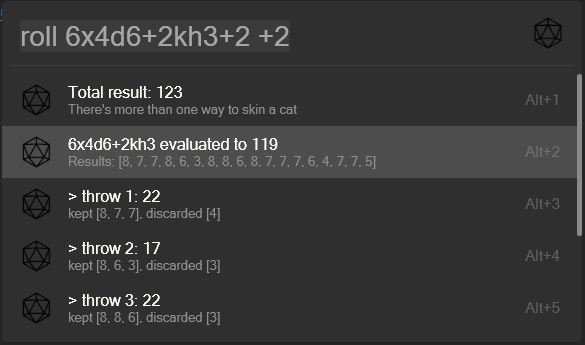
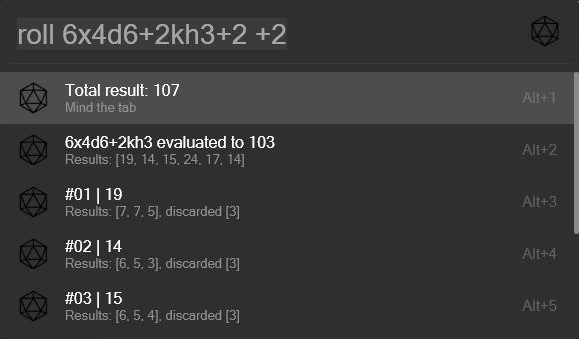
feat: better messages, revisited readme

diff --git a/plugin/roll_dice.py b/plugin/roll_dice.py
@@ -1,4 +1,5 @@
 # encoding=utf8
+from itertools import chain
 import re
 import ast
 import operator as op
@@ -6,7 +7,6 @@ from flowlauncher import FlowLauncher
 from dice_rolling.utils.argument_parser import ParsingResult
 from dice_rolling import RollBuilder
 from fortunes import rnd_fortune
-from itertools import chain
 
 
 def filter_non_valids(text: str) -> str:
@@ -34,6 +34,11 @@ class CustomParsingResult(ParsingResult):
 
 class DiceRequest:
     # see also: https://github.com/Ajordat/dice_rolling
+
+    TXT_TITLE_BASE_REP = "#{:02d} | {}"
+    TXT_TITLE_BASE = "{} evaluated to {}"
+    TXT_SUB_BASE = "Results: {}"
+    TXT_SUB_DISC = ", discarded {}"
 
     GROUP_REQUEST = 0
     GROUP_REPETITIONS = 1
@@ -63,7 +68,7 @@ class DiceRequest:
             b.addition_to_roll(self.request.addition)
             b.keep_n(self.request.keep)
             b.build()
-            r.append(b.get_full_result())
+            r.append(b.get_full_result())  # Tuple[int, list, list]
 
         self.rolls = r
         self.total_sum = sum([result[0] for result in r])
@@ -71,19 +76,50 @@ class DiceRequest:
         self.total_discarded = [
             discarded for result in r for discarded in result[2] if result[2]]
 
+    def __generate_message_title(self, title=None) -> str:
+        if title is None:
+            return self.TXT_TITLE_BASE.format(
+                self.request.full_request,
+                self.total_sum
+            )
+        return title
+
+    def __generate_message_subtitle(self, results: list, discarded: list, base=TXT_SUB_BASE, addition=TXT_SUB_DISC) -> str:
+        subtitle = base.format(results)
+        if len(discarded) > 0:
+            subtitle = subtitle + addition.format(discarded)
+        return subtitle
+
     def total_to_messageDTO(self) -> MessageDTO:
-        title = "{} evaluated to {}".format(
-            self.request.full_request, self.total_sum)
-        subtitle = "Results: {}".format(
-            list(chain.from_iterable([result[1] for result in self.rolls])))  # list flattening
-        return MessageDTO(title, subtitle)
+        def flatten(lst: list):
+            return list(chain.from_iterable(lst))
+
+        results = []
+        discarded = []
+        if len(self.rolls) > 1:
+            results = [roll[0] for roll in self.rolls]
+        else:
+            results = flatten([roll[1] for roll in self.rolls])
+            discarded = flatten([roll[2] for roll in self.rolls if roll[2]])
+
+        return MessageDTO(
+            self.__generate_message_title(),
+            self.__generate_message_subtitle(results, discarded)
+        )
 
     def rolls_to_messageDTO(self) -> list[MessageDTO]:
-        return [MessageDTO(
-            title="> throw {}: {}".format(str(i+1), result[0]),
-            subtitle="kept {}{}".format(result[1], ", discarded {}".format(
-                result[2]) if len(result) > 2 else "")
-        ) for i, result in enumerate(self.rolls)]
+        messages = []
+        for i, roll in enumerate(self.rolls):
+            custom_base_title = self.TXT_TITLE_BASE_REP.format(
+                i+1,
+                roll[0]
+            )
+            discarded = roll[2] if len(roll) > 2 else []
+            messages.append(MessageDTO(
+                self.__generate_message_title(custom_base_title),
+                self.__generate_message_subtitle(roll[1], discarded)
+            ))
+        return messages
 
     def __parse_repititions(self, command: re.Match):
         if command.group(self.GROUP_REPETITIONS):
@@ -160,8 +196,11 @@ class SaferEvaluator:
 class RollDice(FlowLauncher):
     messages = []
 
-    def addMessage(self, message: MessageDTO):
-        self.messages.append(message.as_flow_message())
+    def addMessage(self, message: MessageDTO, isPriority=False):
+        if isPriority:
+            self.messages.insert(0, message.as_flow_message())
+        else:
+            self.messages.append(message.as_flow_message())
 
     def resolve_dice_commands(self, line: str):
         pattern = r'((\d+)x)?(\d*)d(\d+|F)(?:(\+|\-)(\d+))?(k(h|l)\d+)?'
@@ -189,14 +228,14 @@ class RollDice(FlowLauncher):
                 "Total result: {}".format(total_result)).as_flow_message())
         except ValueError:
             title = "Error: Are your arithmetics okay?"
-            self.addMessage(MessageDTO(title))
+            self.addMessage(MessageDTO(title), True)
         except TypeError:
             title = "Error: Are you sure, that your dices are alright?"
-            self.addMessage(MessageDTO(title))
+            self.addMessage(MessageDTO(title), True)
         except Exception:
-            title = "CRITICAL ERROR: please open a GitHub issue!"
-            subtitle = "Don't forget to add the query: " + arguments
-            self.addMessage(MessageDTO(title, subtitle))
+            title = "Warning: There's an issue with evaluating your expression"
+            subtitle = "If this issue persists, please open a github issue."
+            self.addMessage(MessageDTO(title, subtitle), True)
 
     def query(self, arguments: str) -> list:
         if len(arguments) == 0:

diff --git a/plugin/fortunes.py b/plugin/fortunes.py
@@ -1,6 +1,6 @@
 
 import os
-from random import choice as select_randomly
+from random import choice
 
 hints = [
     "Roll at disadvantage with 2d20kl1",
@@ -78,4 +78,4 @@ fortunes = [
 ]
 
 
-def rnd_fortune(): return select_randomly(hints+fortunes)
+def rnd_fortune(): return choice(hints+fortunes)

diff --git a/README.md b/README.md
@@ -10,11 +10,11 @@ A quick way to roll some dice.
 Rolls the given dice, sums the results and evaluates the equation.
 The details of each roll are listed below the result.
 
-As part of the 2.0 rework I added some fun messages based on the linux fortune package because I felt like it.
+As part of the `2.0` rework I added some fun messages based on the linux fortune package because I felt like it.
 
 ## Requirements
 
-To use Python Plugins within Flow you'll need Python 3.10 or later installed on your system.
+To use Python Plugins within Flow you'll need Python v3.10 or later installed on your system.
 You also may need to select your Python installation directory in the Flow Launcher Settings.
 As of v1.8, Flow Launcher should take care of the installation of Python for you if it is not on your system.
 
@@ -41,19 +41,19 @@ The easiest way to install them, is to open a CLI like Powershell, navigate into
 
 ## Usage
 
-As of version 2.0 you can do stuff like this: `6x4d6kh3 + 5`.
+As of version `2.0` you can do stuff like this: `roll 6x4d6kh3 * 5`.
 I highly recommend to check this awesome package out: [dice-rolling](https://github.com/Ajordat/dice_rolling).
 
-| Command |Example | Description |
-| --- | --- | --- |
-| `roll {dice}` | `roll 1d20` | Rolls an amount of dice with the given sides and sums up the result |
-| `roll {fate diece}` | `roll 4dF` | Rolls four times within the range [-1, 0, 1]. *This works as any other die and may be combined with any of the rows below.* |
-| `roll {repititions}x{dice}` | `roll 6x1d20` | Repeats the throw n times and lists each result seperatly. |
-| `roll {dice}{addition}` | `roll 4d6+3` | adds three to the throw result (this is not part of my arithmetics). |
-| `roll {dice}{keep}` | `roll 4d6kh3` | Keeps the highest three of four throws. |
-| `roll {dice}{keep}{addition}` | `roll 4d6kh3+2` | Keeps the highest three of four throws and adds two to the total result. |
-| `roll {dice}{addition}{keep}` | `roll 4d6+2kh3` | Adds the +2 to the 4d6 rolls and then discards the lowest roll. |
-| `roll {any roll} {basic arithmetics}` | `roll 4dF+3kh3 /3` | Does all of the above and then applies given arithmetics. Math! *Note: supported operations are limited to (`mult, div, plus, minus`) due to system safety.* |
+| row | Command                               | Example            | Description                                                                                                                                                  |
+| --- | ------------------------------------- | ------------------ | ------------------------------------------------------------------------------------------------------------------------------------------------------------ |
+| 1   | `roll {dice}`                         | `roll 1d20`        | Rolls an amount of dice with the given sides and sums up the result                                                                                          |
+| 2   | `roll {fate dice}`                    | `roll 4dF`         | Rolls four times within the range [-1, 0, 1]. *This works as any other die and may be combined with any of the rows below.*                                  |
+| 3   | `roll {repititions}x{dice}`           | `roll 6x1d20`      | Repeats the dice roll six times and lists each result separately. See first screenshot.                                                                      |
+| 4   | `roll {dice}{addition}`               | `roll 4d6+3`       | Adds +3 to each rolled d6. *Please note, that adding a space character before the `+` results in the behaviour described in row 8.*                          |
+| 5   | `roll {dice}{keep}`                   | `roll 4d6kh3`      | Discards the lowest roll by keeping the highest three.                                                                                                       |
+| 6   | `roll {dice}{keep}{addition}`         | `roll 4d6kh3+2`    | Same as row 5 and adds two to the total result.                                                                                                              |
+| 7   | `roll {dice}{addition}{keep}`         | `roll 4d6+2kl2`    | Same as row 4 and then keeps the lowest two rolls.                                                                                                           |
+| 8   | `roll {any roll} {basic arithmetics}` | `roll 4dF+3kh3 /3` | Does all of the above and then applies given arithmetics. Math! *Note: supported operations are limited to (`mult, div, plus, minus`) due to system safety.* |
 
 ## Problems, errors and feature requests
 
